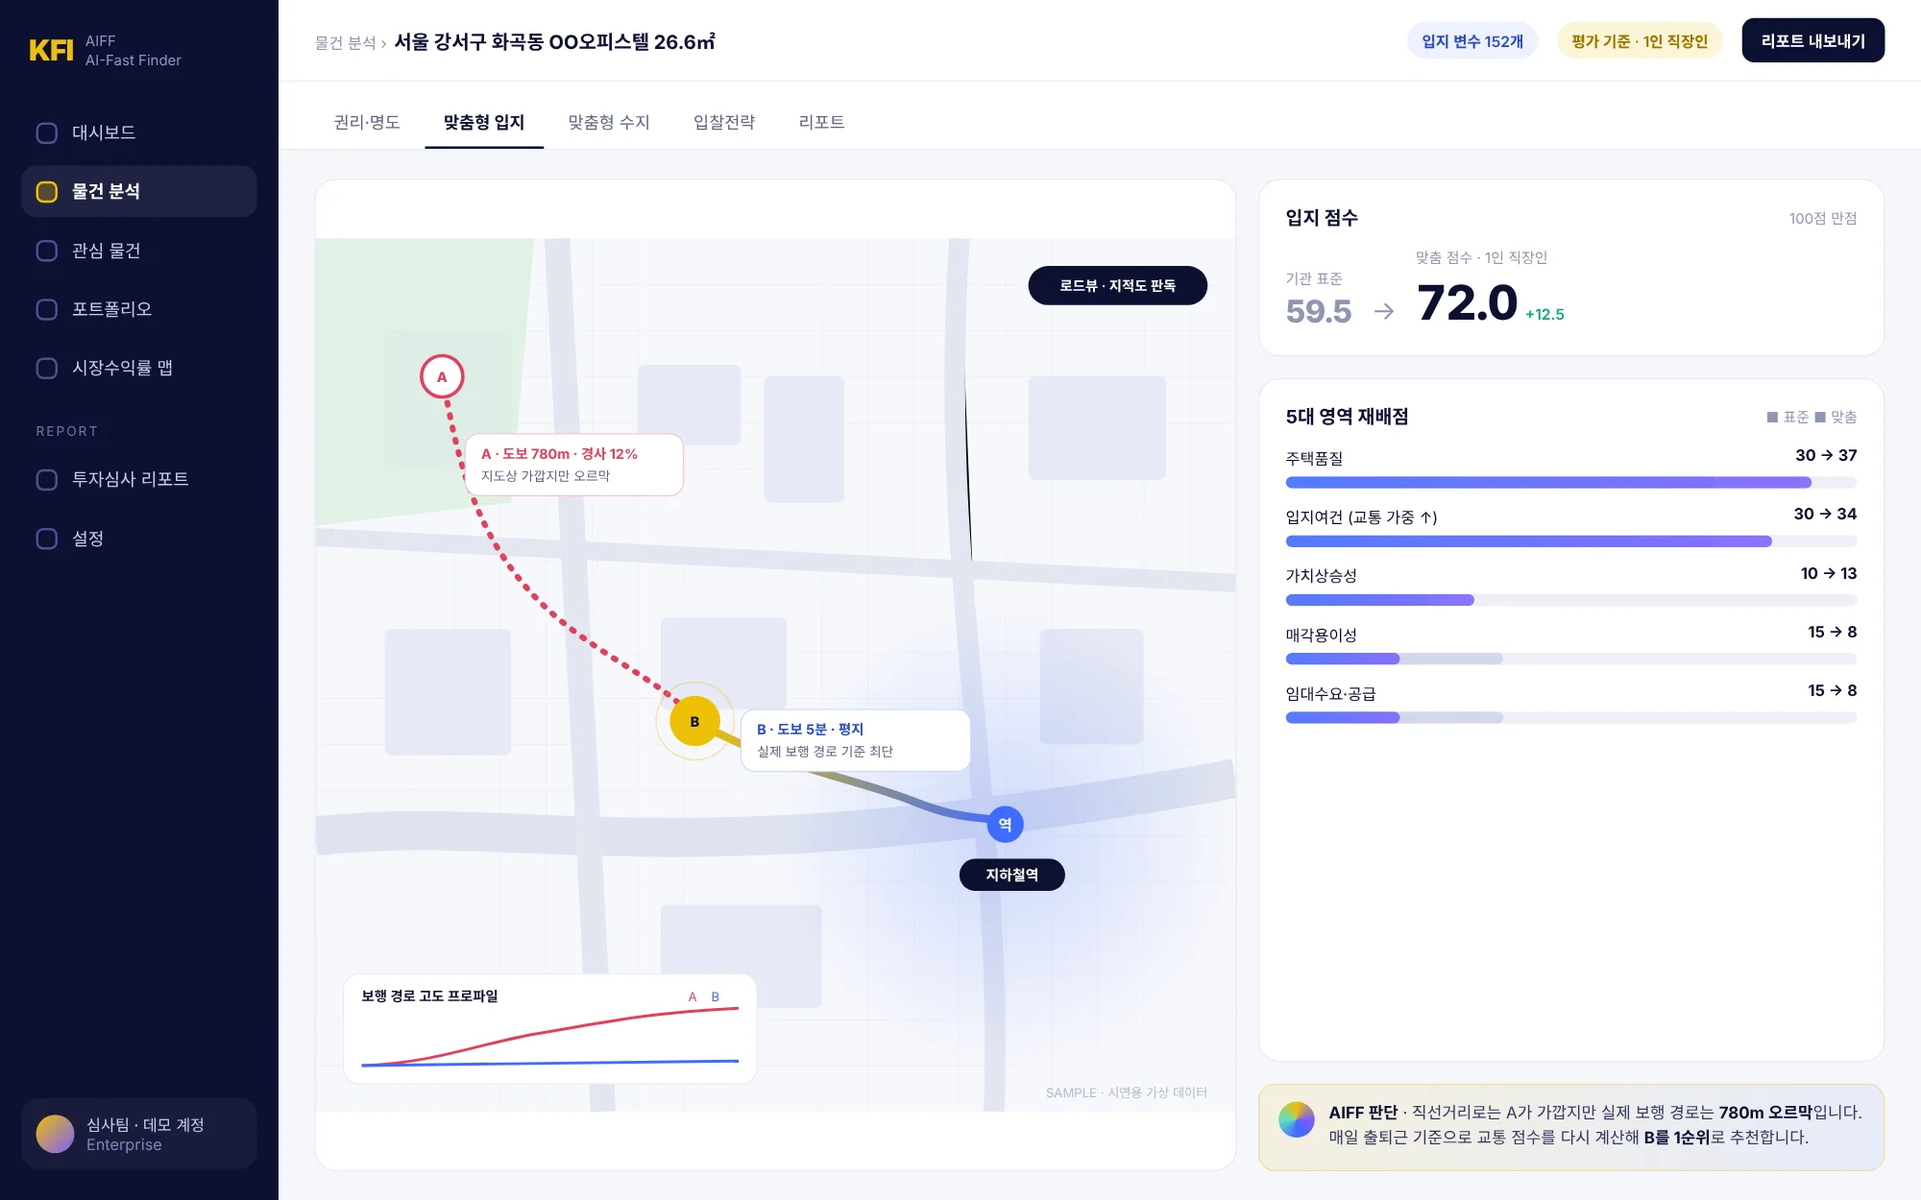
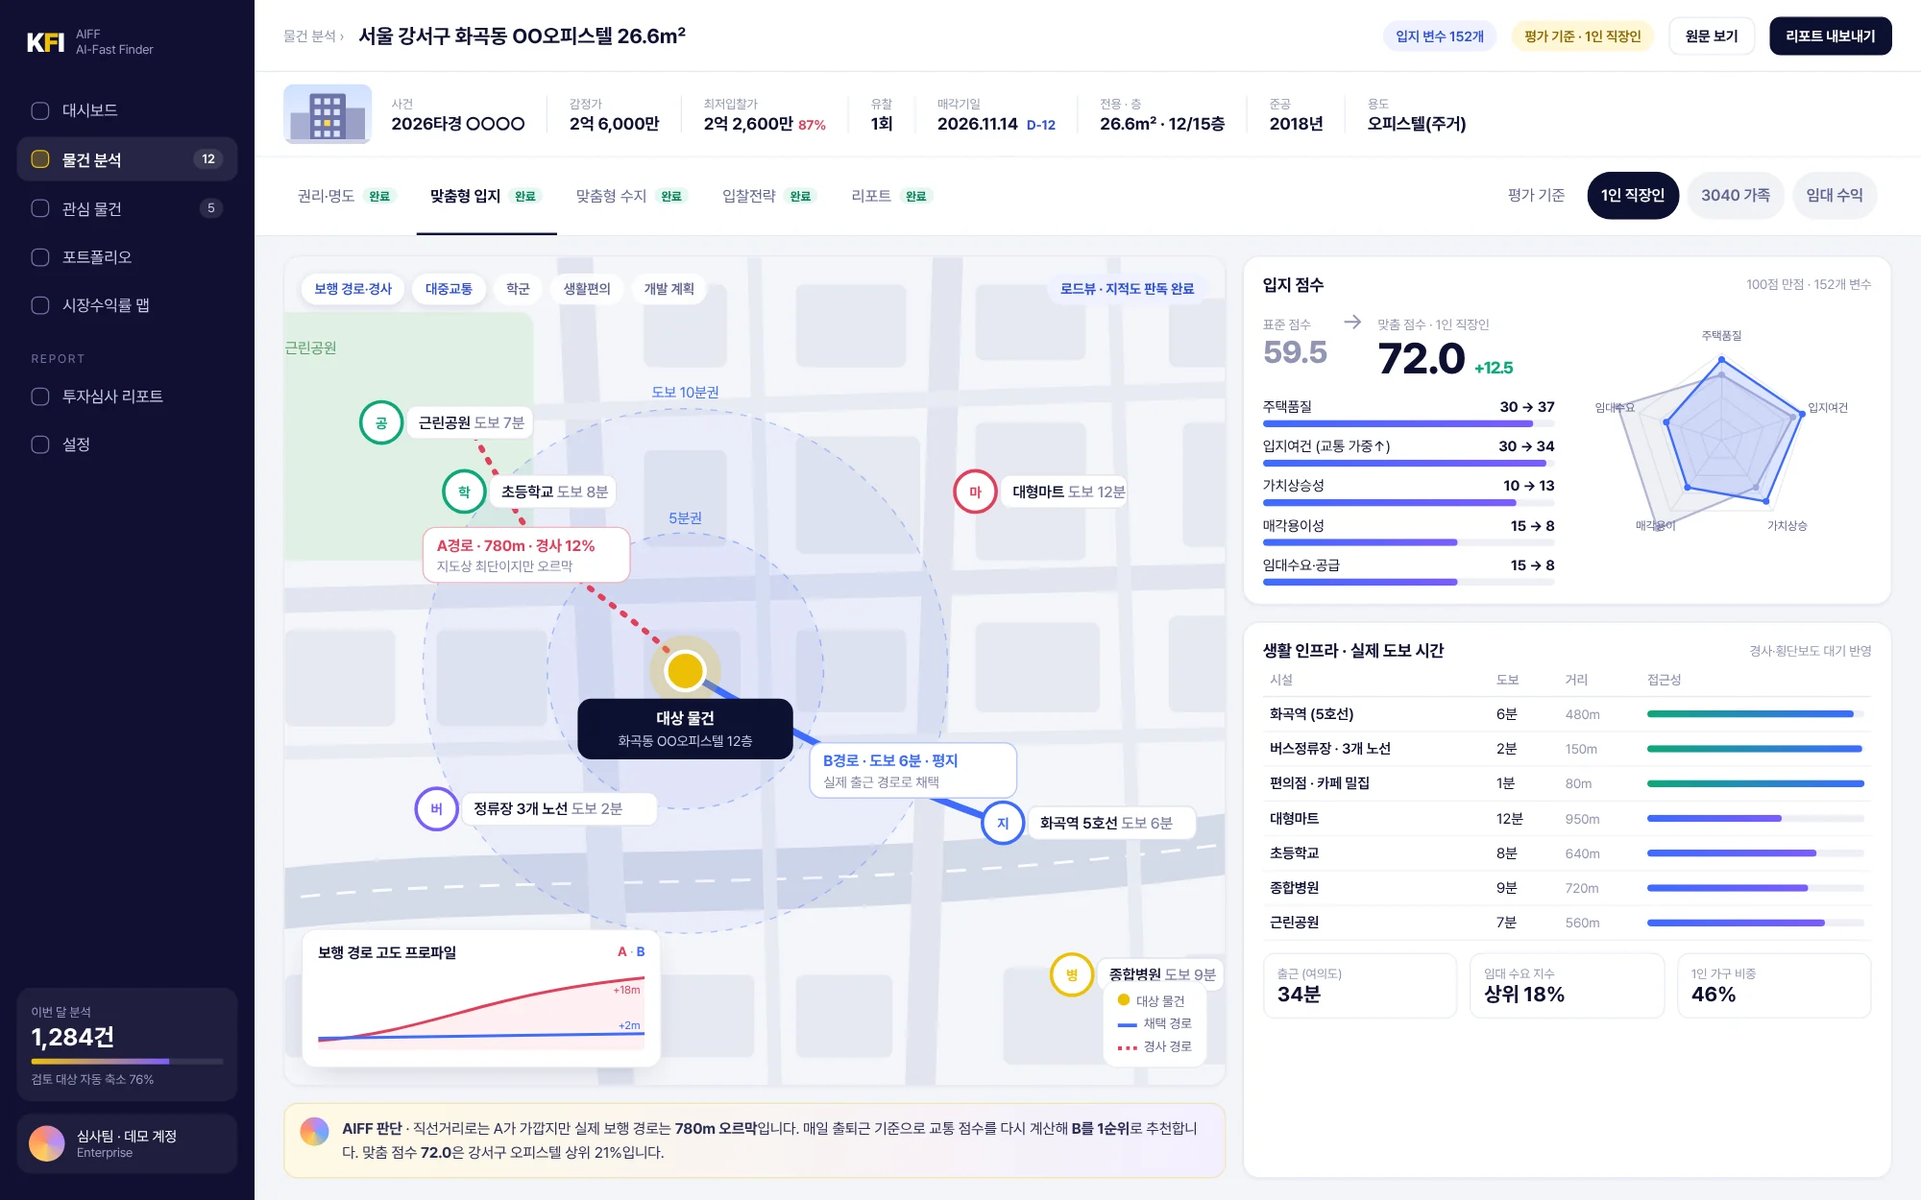
분석 화면 섹션 리디자인: 큰 브라우저 프레임·AI 포커스·핵심 숫자 카드, 분석 화면 5종 고밀도 이미지로 교체
Claude-Session: https://claude.ai/code/session_018fE5m1hMHtgMGpTe9JdTyV

diff --git a/index.html b/index.html
@@ -841,6 +841,71 @@ body.fx-cursor .cursorlight.on{opacity:1}
  .tl5 span:not(.n){display:none}
 }
 @media (max-width:560px){.steps4{display:grid;grid-template-columns:1fr 1fr;gap:10px 12px}.steps4 li+li::before{display:none}}
+
+/* ===== product tour v2 : big stage, browser frame, AI focus + floating callouts ===== */
+.tour2{display:grid;gap:clamp(18px,2.4vw,28px);margin-top:clamp(8px,1.5vw,16px)}
+.ttabs{display:grid;grid-template-columns:repeat(5,minmax(0,1fr));gap:6px;padding:6px;border-radius:20px;background:rgba(255,255,255,.7);border:1px solid var(--edge);box-shadow:0 10px 30px -22px rgba(30,40,130,.35);backdrop-filter:blur(10px)}
+.ttabs .tt{all:unset;cursor:pointer;position:relative;display:flex;align-items:center;justify-content:center;gap:10px;padding:14px 12px;border-radius:14px;overflow:hidden;transition:background .3s,color .3s;white-space:nowrap}
+.ttabs .tt .n{font-size:12px;font-weight:800;color:var(--dim);letter-spacing:.04em}
+.ttabs .tt b{font-size:15.5px;font-weight:700;color:var(--muted)}
+.ttabs .tt .bar{position:absolute;left:12px;right:auto;bottom:6px;height:2px;width:0;max-width:calc(100% - 24px);border-radius:2px;background:linear-gradient(90deg,var(--gold),var(--violet))}
+.ttabs .tt[aria-selected="true"]{background:#fff;box-shadow:0 6px 18px -10px rgba(30,40,130,.45)}
+.ttabs .tt[aria-selected="true"] b{color:var(--ink)}
+.ttabs .tt[aria-selected="true"] .n{color:var(--gold-ink)}
+.ttabs .tt:hover b{color:var(--ink)}
+.ttabs .tt:focus-visible{outline:2px solid var(--blue);outline-offset:-2px}
+.tstage{position:relative;perspective:2000px;padding:0 clamp(0px,3vw,48px)}
+.tglow{position:absolute;inset:8% 6% -4%;border-radius:40px;background:radial-gradient(60% 60% at 25% 30%,rgba(237,191,7,.35),transparent 70%),radial-gradient(60% 60% at 80% 70%,rgba(123,92,255,.32),transparent 70%),radial-gradient(50% 50% at 60% 20%,rgba(61,107,255,.22),transparent 70%);filter:blur(50px);z-index:0;pointer-events:none}
+.tdev{position:relative;z-index:1;margin:0;border-radius:18px;background:#fff;border:1px solid rgba(24,30,90,.12);box-shadow:0 2px 0 rgba(255,255,255,.8) inset,0 50px 100px -40px rgba(20,24,80,.45),0 18px 40px -24px rgba(20,24,80,.3);overflow:hidden;transform:rotateX(9deg) scale(.96);transform-origin:50% 100%;transition:transform 1.2s cubic-bezier(.2,.7,.2,1)}
+.tstage.in .tdev{transform:none}
+.tchrome{display:flex;align-items:center;gap:14px;padding:11px 16px;background:linear-gradient(#fbfbfe,#f3f4fa);border-bottom:1px solid rgba(24,30,90,.08)}
+.tchrome .tl{display:flex;gap:7px}.tchrome .tl i{width:11px;height:11px;border-radius:50%;background:#ff5f57}.tchrome .tl i+i{background:#febc2e}.tchrome .tl i+i+i{background:#28c840}
+.turl{flex:1;min-width:0;max-width:520px;margin:0 auto;display:flex;align-items:center;gap:7px;padding:7px 14px;border-radius:10px;background:#fff;border:1px solid rgba(24,30,90,.08);font-size:12.5px;font-weight:600;color:var(--ink);white-space:nowrap;overflow:hidden}
+.turl svg{width:12px;height:12px;color:var(--mint);flex:none}
+.turl em{font-style:normal;font-weight:500;color:var(--dim);overflow:hidden;text-overflow:ellipsis}
+.tdone{display:inline-flex;align-items:center;gap:7px;font-size:12px;font-weight:700;color:#0b7d5c;background:rgba(15,167,122,.1);padding:6px 11px;border-radius:999px;white-space:nowrap}
+.tdone i{width:7px;height:7px;border-radius:50%;background:var(--mint);box-shadow:0 0 0 0 rgba(15,167,122,.5);animation:tping 1.8s infinite}
+@keyframes tping{70%{box-shadow:0 0 0 7px rgba(15,167,122,0)}100%{box-shadow:0 0 0 0 rgba(15,167,122,0)}}
+.tview{position:relative;aspect-ratio:16/10;overflow:hidden;background:#f5f6fb;cursor:zoom-in}
+.tcam{position:absolute;inset:0;transition:transform .5s ease}
+.tcam.go{animation:tcam 7s cubic-bezier(.45,0,.25,1) forwards}
+@keyframes tcam{0%,18%{transform:scale(1)}55%,100%{transform:scale(1.16)}}
+.tcam img{width:100%;height:100%;object-fit:cover;display:block;transition:opacity .3s,filter .3s}
+.tcam img.out{opacity:.1;filter:blur(8px)}
+.tfocus{position:absolute;border-radius:12px;border:2px solid var(--gold);box-shadow:0 0 0 9999px rgba(13,16,48,0),0 0 24px rgba(237,191,7,.55);opacity:0;transform:scale(1.08);transition:opacity .5s,transform .6s cubic-bezier(.2,.8,.2,1),box-shadow .8s}
+.tfocus.on{opacity:1;transform:none;box-shadow:0 0 0 9999px rgba(13,16,48,.18),0 0 26px rgba(237,191,7,.6)}
+.tfocus.on::after{content:"AI";position:absolute;top:-11px;left:12px;font-size:10px;font-weight:800;letter-spacing:.08em;color:#15120a;background:var(--gold);padding:3px 7px;border-radius:6px}
+.tzoom{position:absolute;right:14px;bottom:14px;z-index:3}
+.tcall{position:absolute;z-index:2;min-width:210px;max-width:260px;padding:16px 18px;border-radius:18px;background:rgba(255,255,255,.86);backdrop-filter:blur(14px) saturate(1.4);border:1px solid rgba(255,255,255,.9);box-shadow:0 30px 60px -28px rgba(20,24,80,.5),0 0 0 1px rgba(24,30,90,.06);display:grid;gap:4px;opacity:0;transform:translateY(16px) scale(.96);transition:opacity .5s,transform .6s cubic-bezier(.2,.8,.2,1);pointer-events:none}
+.tcall.on{opacity:1;transform:none}
+.tcall small{font-size:12px;font-weight:600;color:var(--muted)}
+.tcall b{font-size:clamp(22px,2.2vw,28px);font-weight:800;letter-spacing:-.02em;line-height:1.15;background:linear-gradient(100deg,var(--ink) 20%,#3d4fd6 70%,var(--violet));-webkit-background-clip:text;background-clip:text;color:transparent}
+.tcall span{font-size:12.5px;color:var(--dim)}
+.tcall.l{left:0;bottom:12%}
+.tcall.r{right:0;top:16%}
+.tcall.l::before,.tcall.r::before{content:"";position:absolute;top:18px;width:4px;height:28px;border-radius:4px;background:linear-gradient(var(--gold),var(--violet))}
+.tcall.l::before{left:-1px}.tcall.r::before{left:-1px}
+.tinfo{display:flex;justify-content:space-between;align-items:flex-end;gap:24px;flex-wrap:wrap;padding:0 clamp(0px,3vw,48px)}
+.tinfo>div:first-child{max-width:640px}
+.tstep{font-size:12.5px;font-weight:800;letter-spacing:.08em;color:var(--gold-ink)}
+.tinfo h3{margin:6px 0 6px;font-size:clamp(20px,2vw,24px)}
+.tinfo p{margin:0;color:var(--muted);font-size:15px;line-height:1.65}
+.tside{display:flex;align-items:center;gap:14px;flex-wrap:wrap}
+.tout{font-size:14px;font-weight:700;color:#2a4bc4;background:rgba(61,107,255,.08);padding:10px 14px;border-radius:12px}
+@media (max-width:900px){
+ .ttabs{display:flex;overflow-x:auto;scrollbar-width:none;-webkit-mask-image:linear-gradient(90deg,#000 85%,transparent);mask-image:linear-gradient(90deg,#000 85%,transparent)}
+ .ttabs::-webkit-scrollbar{display:none}
+ .ttabs .tt{flex:none;padding:12px 14px}
+ .tstage{padding:0;display:grid;grid-template-columns:1fr 1fr;gap:12px 10px}
+ .tglow,.tdev{grid-column:1/-1}
+ .tdev{transform:none}
+ .tcall,.tcall.l,.tcall.r{position:relative;inset:auto;min-width:0;max-width:none;padding:13px 14px;border-radius:14px}
+ .tcall b{font-size:19px}
+ .tchrome .tl,.tdone{display:none}
+ .turl{max-width:none;margin:0}
+ .tinfo{padding:0}
+}
+@media (prefers-reduced-motion:reduce){.tdev{transform:none;transition:none}.tcam.go{animation:none}.tcall,.tfocus{transition:none}}
 @media (max-width:700px){
  .aurora i{filter:blur(48px);animation:none}
  .glass,.nav.solid,.orbit-chip,.fab,.chatbox,.stage .cap{backdrop-filter:none;-webkit-backdrop-filter:none}
@@ -975,13 +1040,18 @@ body.fx-cursor .cursorlight.on{opacity:1}
       <h2 class="h2">AIFF의<br><span class="grad">실제 분석 화면</span></h2>
       <p class="lead">AIFF 분석 시스템의 핵심 화면입니다. 서류를 읽고, 현장을 보고, 목적에 맞춰 수익을 계산하고, 입찰가와 순위까지 하나의 화면 흐름으로 이어집니다.</p>
     </div>
-    <div class="tour">
-      <div class="tlist2 rv" role="tablist" aria-label="AIFF 핵심 화면" id="tlist2"></div>
-      <figure class="glass tscreen rv">
-        <div class="tbar"><i></i><i></i><i></i><span id="tcap">AIFF · 권리 분석</span><span class="live">● AIFF</span></div>
-        <div class="tvid"><img id="timg" src="media/app-1.webp" alt="AIFF 권리·명도 분석 화면" width="2000" height="1250"><div class="tscan" aria-hidden="true"></div><button type="button" class="tzoom" id="tzoom">⤢ 크게 보기</button></div>
-        <figcaption class="tfoot"><div class="tprog"><i id="tprog"></i></div><div class="tmeta"><span id="tout"></span><a class="btn gold" href="http://www.kfi.finance" target="_blank" rel="noopener">AIFF 분석 시스템 열기 <span class="ext">↗</span></a></div></figcaption>
-      </figure>
+    <div class="tour2">
+      <div class="ttabs rv" role="tablist" aria-label="AIFF 핵심 화면" id="tlist2"></div>
+      <div class="tstage rv">
+        <div class="tglow" aria-hidden="true"></div>
+        <figure class="tdev">
+          <div class="tchrome"><span class="tl"><i></i><i></i><i></i></span><span class="turl"><svg viewBox="0 0 16 16" aria-hidden="true"><path d="M4.5 7V5a3.5 3.5 0 0 1 7 0v2" fill="none" stroke="currentColor" stroke-width="1.5"/><rect x="3" y="7" width="10" height="7" rx="2" fill="currentColor"/></svg>kfi.finance<em id="tpath">/ 물건 분석 / 권리·명도</em></span><span class="tdone" id="tdone"><i></i>AI 분석 완료 · 3.0초</span></div>
+          <div class="tview" id="tview"><div class="tcam" id="tcam"><img id="timg" src="media/app-1.webp" alt="AIFF 권리·명도 분석 화면" width="2000" height="1250"><span class="tfocus" id="tfocus" aria-hidden="true"></span></div><button type="button" class="tzoom" id="tzoom">⤢ 원본 크게 보기</button></div>
+        </figure>
+        <div class="tcall l" id="tcallA" aria-hidden="true"></div>
+        <div class="tcall r" id="tcallB" aria-hidden="true"></div>
+      </div>
+      <div class="tinfo rv"><div><span class="tstep" id="tstep">01 / 05</span><h3 id="tttl">권리·명도 분석</h3><p id="tdesc"></p></div><div class="tside"><span class="tout" id="tout"></span><a class="btn gold" href="http://www.kfi.finance" target="_blank" rel="noopener">AIFF 분석 시스템 열기 <span class="ext">↗</span></a></div></div>
     </div>
     <p class="note" style="margin-top:12px">AIFF 분석 화면 예시 · 시연용 가상 데이터</p>
     <p class="disc"><b>안내</b><span>AIFF의 분석 결과(적정·부적정 판정, 추천 입찰 구간, 낙찰확률, 수익률 등)는 투자 판단을 돕는 참고 정보이며 특정 물건의 매수·입찰을 권유하지 않습니다. 실제 권리관계와 현장 상황은 반드시 직접 확인하시고, 투자 결정과 그 결과에 대한 책임은 이용자 본인에게 있습니다.</span></p>
@@ -1327,25 +1397,37 @@ sel(0);if(!RM)setInterval(()=>{if(!u)sel((c+1)%5)},2600);
 /* ---------- PRODUCT TOUR ---------- */
 const esc=s=>String(s??'').replace(/[&<>"]/g,c=>({'&':'&amp;','<':'&lt;','>':'&gt;','"':'&quot;'}[c]));
 const TOUR=[
- {v:'rights',t:'권리·명도 분석',c:'AIFF · 권리 분석',d:'등기부·매각물건명세서·현황조사서를 AI가 동시에 읽고, 낙찰자가 떠안을 권리와 임차인 위험을 찾아냅니다.',o:'→ 서류 12건 판독 · 인수 보증금 0원'},
- {v:'location',t:'맞춤형 입지분석',c:'AIFF · 맞춤형 입지분석',d:'지도 위 직선거리가 아니라 실제 걷는 길과 경사까지 계산해, 사는 사람의 기준으로 입지를 다시 평가합니다.',o:'→ 도보 780m · 경사 12% 반영'},
- {v:'profit',t:'맞춤형 수지분석',c:'AIFF · 맞춤형 수지분석',d:'총투자원가와 자금조달부터 10년 현금흐름, 수익성, 민감도까지 한 화면에서 판정합니다. 투자 목적을 바꾸면 기준이 함께 바뀝니다.',o:'→ Equity IRR 26.8% · 목표 12% 충족 · 적정'},
- {v:'bid',t:'입찰전략',c:'AIFF · 입찰전략',d:'낙찰확률과 수익을 함께 시뮬레이션해, 안전하면서 목표 수익을 지키는 입찰 구간을 제시합니다.',o:'→ R 2.49억 ~ M 2.83억 · 낙찰확률 27%→55%'},
- {v:'rank',t:'맞춤 순위·리포트',c:'AIFF · 맞춤 순위',d:'같은 집 5채라도 사람마다 1위가 다릅니다. 목적별로 순위를 다시 매기고 투자심사 리포트를 자동으로 만듭니다.',o:'→ 가족 기준 5위가 10년 투자 1위로'}];
-{const L=$('#tlist2'),I=$('#timg');let cur=0,user=false,t0=performance.now(),raf=0;const DUR=6500;
- TOUR.forEach((t,i)=>{const pre=new Image();pre.src='media/app-'+(i+1)+'.webp';const b=document.createElement('button');b.type='button';b.className='tt';b.id='tt'+i;b.setAttribute('role','tab');b.setAttribute('aria-controls','timg');
-  b.innerHTML=`<span class="n">0${i+1}</span><b>${t.t}</b><p>${t.d}</p><span class="bar"></span>`;b.onclick=()=>{user=true;sel(i)};
-  b.onkeydown=e=>{if(/Down|Right/.test(e.key)){e.preventDefault();user=true;sel((i+1)%5,1)}if(/Up|Left/.test(e.key)){e.preventDefault();user=true;sel((i+4)%5,1)}};L.appendChild(b)});
- function sel(i,f){cur=i;t0=performance.now();TOUR.forEach((_,j)=>{const b=$('#tt'+j);b.setAttribute('aria-selected',j===i);b.tabIndex=j===i?0:-1;b.querySelector('.bar').style.width='0'});if(f)$('#tt'+i).focus();
-  const t=TOUR[i];$('#tcap').textContent=t.c;$('#tout').textContent=t.o;I.classList.add('out');
-  setTimeout(()=>{I.src='media/app-'+(i+1)+'.webp';I.alt='AIFF '+t.t+' 화면';I.classList.remove('zoom');void I.offsetWidth;if(!RM)I.classList.add('zoom');I.classList.remove('out')},RM?0:260)}
- let vis=true;if('IntersectionObserver' in window)new IntersectionObserver(es=>{vis=es[0].isIntersecting;if(vis)t0=performance.now()-(t0?0:0)},{threshold:.2}).observe(I);
- function tick(now){const k=Math.min(1,(now-t0)/DUR);$('#tprog').style.width=k*100+'%';$('#tt'+cur+' .bar').style.width=k*100+'%';
+ {t:'권리·명도 분석',p:'물건 분석 / 권리·명도',done:'AI 분석 완료 · 3.0초',d:'등기부·매각물건명세서·현황조사서를 AI가 동시에 읽고, 낙찰자가 떠안을 권리와 임차인 위험을 찾아냅니다.',o:'서류 12건 판독 · 인수 보증금 0원',
+  f:[74,21.5,24.5,27.5],z:[0,0],A:{k:'인수 권리 · 인수 보증금',v:'0건 · 0원',s:'말소기준 이후 권리 모두 소멸'},B:{k:'AI가 읽은 서류',v:'12건 · 3.0초',s:'평균 판독 신뢰도 99.3%'}},
+ {t:'맞춤형 입지분석',p:'물건 분석 / 맞춤형 입지',done:'입지 변수 152개 반영',d:'지도 위 직선거리가 아니라 실제 걷는 길과 경사까지 계산해, 사는 사람의 기준으로 입지를 다시 평가합니다.',o:'도보 780m · 경사 12% 반영',
+  f:[22,43,31,24],z:[0,0],A:{k:'실제 보행 경로',v:'780m · 경사 12%',s:'지도상 가까운 A는 오르막'},B:{k:'맞춤 입지 점수',v:'59.5 → 72.0',s:'1인 직장인 기준 · 152개 변수'}},
+ {t:'맞춤형 수지분석',p:'물건 분석 / 맞춤형 수지',done:'10년 현금흐름 산출',d:'총투자원가와 자금조달부터 10년 현금흐름, 수익성, 민감도까지 한 화면에서 판정합니다. 투자 목적을 바꾸면 기준이 함께 바뀝니다.',o:'Equity IRR 26.8% · 목표 12% 충족 · 적정',
+  f:[54.3,21.4,12.1,9.4],z:[0,0],A:{k:'Equity IRR',v:'26.8%',s:'목표 12% 충족 · 적정'},B:{k:'민감도 25개 시나리오',v:'전부 충족',s:'매입가 +10%에도 IRR 20% 이상'}},
+ {t:'입찰전략',p:'물건 분석 / 입찰전략',done:'유사 낙찰 사례 96건 학습',d:'낙찰확률과 수익을 함께 시뮬레이션해, 안전하면서 목표 수익을 지키는 입찰 구간을 제시합니다.',o:'R 2.49억 ~ M 2.83억 · 낙찰확률 27%→55%',
+  f:[29.8,27.5,11.6,28],z:[0,0],A:{k:'AI 추천 입찰 구간',v:'2.49억 ~ 2.83억',s:'목표 Equity IRR 12% 유지'},B:{k:'시뮬레이션',v:'10,000회',s:'유사 낙찰 96건 · 경쟁 4~5명 예측'}},
+ {t:'맞춤 순위·리포트',p:'관심 물건 / 맞춤 순위',done:'투자심사 리포트 자동 생성',d:'같은 집 5채라도 사람마다 1위가 다릅니다. 목적별로 순위를 다시 매기고 투자심사 리포트를 자동으로 만듭니다.',o:'가족 기준 5위가 10년 투자 1위로',
+  f:[62.5,63,35,18],z:[0,0],A:{k:'기준을 바꾸면',v:'5위 → 1위',s:'3040 가족 → 10년 장기 투자'},B:{k:'투자심사 리포트',v:'3.0초 자동 생성',s:'권리·명도·입지·수지·입찰 5개 항목'}}];
+{const L=$('#tlist2'),I=$('#timg'),cam=$('#tcam'),fo=$('#tfocus'),cA=$('#tcallA'),cB=$('#tcallB');let cur=0,user=false,t0=performance.now(),raf=0,tm=[];const DUR=7000;
+ const card=c=>`<small>${c.k}</small><b>${c.v}</b><span>${c.s}</span>`;
+ TOUR.forEach((t,i)=>{const pre=new Image();pre.src='media/app-'+(i+1)+'.webp';const b=document.createElement('button');b.type='button';b.className='tt';b.id='tt'+i;b.setAttribute('role','tab');b.setAttribute('aria-controls','tview');
+  b.innerHTML=`<span class="n">0${i+1}</span><b>${t.t}</b><span class="bar"></span>`;b.onclick=()=>{user=true;sel(i)};
+  b.onkeydown=e=>{if(/Right|Down/.test(e.key)){e.preventDefault();user=true;sel((i+1)%5,1)}if(/Left|Up/.test(e.key)){e.preventDefault();user=true;sel((i+4)%5,1)}};L.appendChild(b)});
+ function sel(i,f){cur=i;t0=performance.now();tm.forEach(clearTimeout);tm=[];
+  TOUR.forEach((_,j)=>{const b=$('#tt'+j);b.setAttribute('aria-selected',j===i);b.tabIndex=j===i?0:-1;b.querySelector('.bar').style.width='0'});
+  const tb=$('#tt'+i);if(f)tb.focus();if(L.scrollWidth>L.clientWidth)L.scrollTo({left:tb.offsetLeft-16,behavior:RM?'auto':'smooth'});
+  const t=TOUR[i];$('#tpath').textContent='/ '+t.p;$('#tdone').lastChild.textContent=t.done;$('#tstep').textContent=`0${i+1} / 05`;$('#tttl').textContent=t.t;$('#tdesc').textContent=t.d;$('#tout').textContent='→ '+t.o;
+  [cA,cB,fo].forEach(e=>e.classList.remove('on'));cam.classList.remove('go');I.classList.add('out');
+  tm.push(setTimeout(()=>{I.src='media/app-'+(i+1)+'.webp';I.alt='AIFF '+t.t+' 화면';
+   fo.style.cssText=`left:${t.f[0]}%;top:${t.f[1]}%;width:${t.f[2]}%;height:${t.f[3]}%`;const K=1.16,org=(a,w)=>{let o=a+w/2;const lo=o+(a-o)*K,hi=o+(a+w-o)*K;if(hi>97)o=(97-(a+w)*K)/(1-K);else if(lo<3)o=(3-a*K)/(1-K);return Math.max(0,Math.min(100,o))};cam.style.transformOrigin=`${org(t.f[0],t.f[2])}% ${org(t.f[1],t.f[3])}%`;
+   cA.innerHTML=card(t.A);cB.innerHTML=card(t.B);I.classList.remove('out');void cam.offsetWidth;
+   if(!RM)cam.classList.add('go');tm.push(setTimeout(()=>fo.classList.add('on'),RM?0:700),setTimeout(()=>cA.classList.add('on'),RM?0:1100),setTimeout(()=>cB.classList.add('on'),RM?0:1500))},RM?0:280))}
+ let vis=true;if('IntersectionObserver' in window)new IntersectionObserver(es=>{vis=es[0].isIntersecting},{threshold:.25}).observe($('#tview'));
+ function tick(now){const k=Math.min(1,(now-t0)/DUR);$('#tt'+cur+' .bar').style.width=k*100+'%';
   if(k>=1&&!user&&vis&&!RM)sel((cur+1)%5);raf=requestAnimationFrame(tick)}
  sel(0);raf=requestAnimationFrame(tick)}
 {const lb=document.createElement('div');lb.className='lbox';lb.hidden=true;lb.setAttribute('role','dialog');lb.setAttribute('aria-label','분석 화면 크게 보기');lb.innerHTML='<img alt=""><button type="button" aria-label="닫기">×</button>';document.body.appendChild(lb);
  const open=()=>{const im=$('#timg');lb.querySelector('img').src=im.src;lb.querySelector('img').alt=im.alt;lb.hidden=false;lb.querySelector('button').focus()};const close=()=>{lb.hidden=true;$('#tzoom').focus()};
- $('#tzoom').onclick=e=>{e.stopPropagation();open()};$('#timg').onclick=open;lb.onclick=close;addEventListener('keydown',e=>{if(e.key==='Escape'&&!lb.hidden)close()})}
+ $('#tzoom').onclick=e=>{e.stopPropagation();open()};$('#tview').onclick=open;lb.onclick=close;addEventListener('keydown',e=>{if(e.key==='Escape'&&!lb.hidden)close()})}
 function setMode(){$('#chatMode').textContent=sample?'실시간 AI · 페이지 안내 연동':'시연 모드 · 준비된 답변'}
 
 /* counters */
